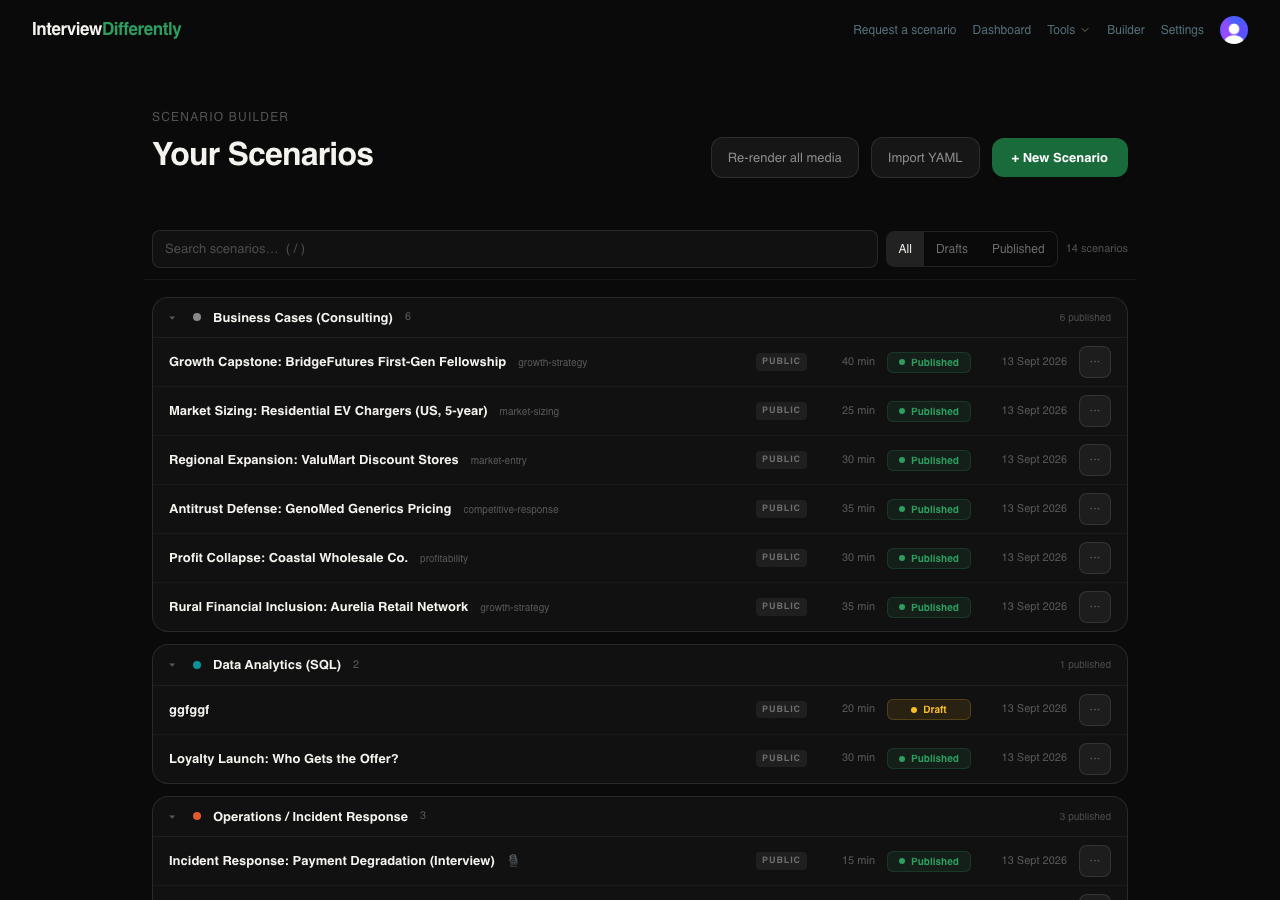
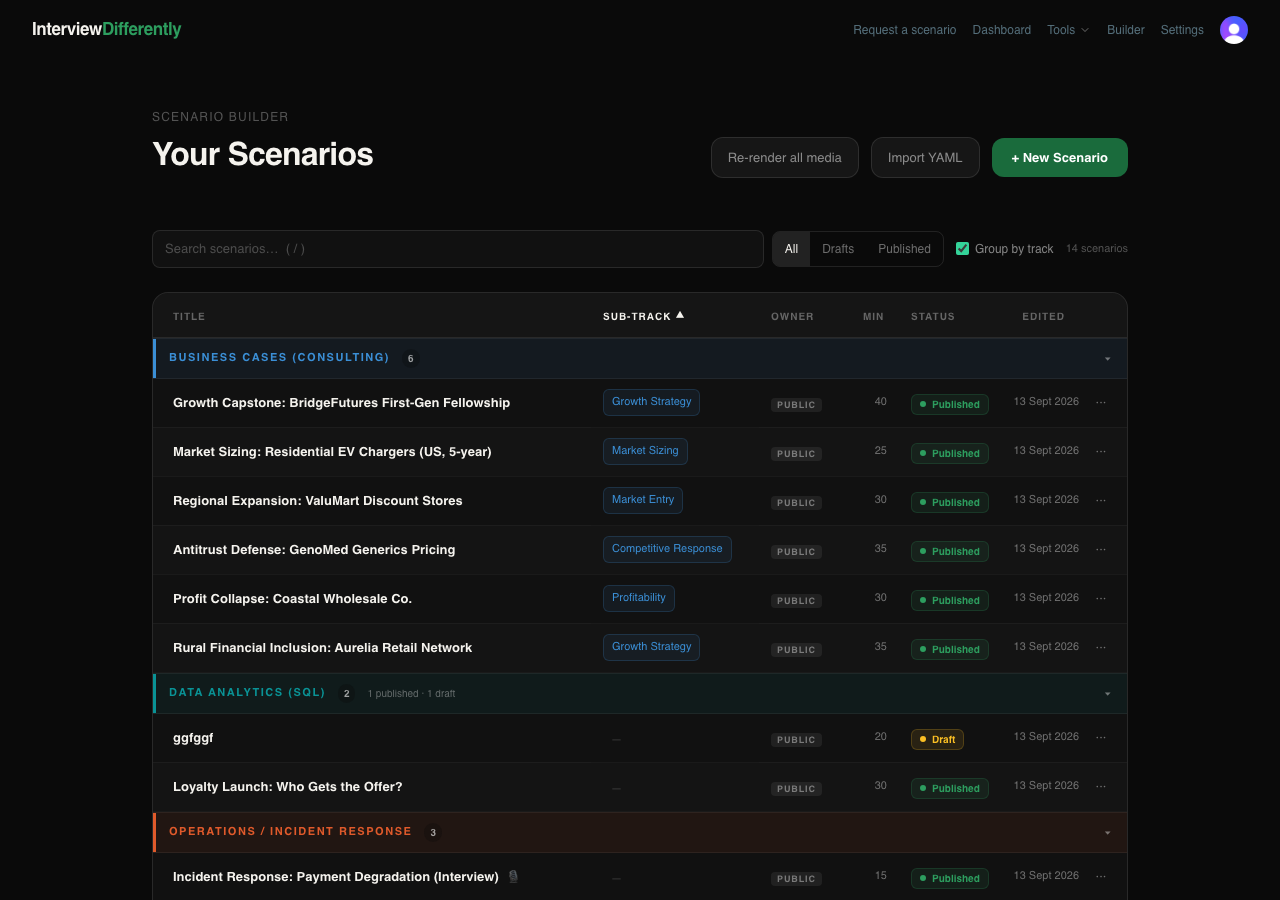
feat: builder list as a sortable table with track bands and sub-track tiles
Follow-up to the first cut of #29 after review: a real table (header row,
click-to-sort, zebra rows) inside a card; track-tinted group bands with a
coloured rule and counts; a Sub-track column of tiles ("Growth Strategy")
when grouped, "Track / Sub-track" when the Group by track toggle is off;
owner and status badges kept; Edited always visible. "Subcategory" /
"Case type" labels renamed to "Sub-track" on the setup page and Setup
block for consistency (data field unchanged).

Refs #29.

diff --git a/apps/web/src/pages/BuilderListPage.tsx b/apps/web/src/pages/BuilderListPage.tsx
@@ -1,4 +1,4 @@
-import { useState, useEffect, useRef } from 'react'
+import { Fragment, useState, useEffect, useRef } from 'react'
 import { useNavigate } from 'react-router-dom'
 import { useAuth } from '@clerk/clerk-react'
 import { Nav } from '@/components/Nav'
@@ -19,6 +19,7 @@ import {
   type BulkRenderSummary,
 } from '@/services/scenarioMediaService'
 import type { Scenario } from '@id/types'
+import { BUSINESS_CASE_SUBCATEGORY_LABELS } from '@id/types'
 
 // ── Row action menu ───────────────────────────────────────────────────────────
 
@@ -44,7 +45,7 @@ function RowMenu({ actions }: { actions: MenuAction[] }) {
     <div ref={ref} className="relative">
       <button
         onClick={() => setOpen(o => !o)}
-        className="text-[13px] text-white/30 hover:text-white/60 bg-white/5 hover:bg-white/10 border border-white/10 rounded-lg w-8 h-8 flex items-center justify-center transition-all"
+        className="text-[13px] text-white/40 hover:text-white/80 hover:bg-white/10 rounded-md w-7 h-7 flex items-center justify-center transition-all"
       >
         ···
       </button>
@@ -70,6 +71,7 @@ function RowMenu({ actions }: { actions: MenuAction[] }) {
 // ─────────────────────────────────────────────────────────────────────────────
 
 const TRACK_COLORS: Record<string, string> = {
+  'business case': '#3b8fd6',
   operations: '#e05a2b',
   business: '#2b7de0',
   risk: '#c0392b',
@@ -88,6 +90,23 @@ function readPref(k: string): string {
 }
 function writePref(k: string, v: string) {
   try { const all = JSON.parse(localStorage.getItem(PREF_KEY) ?? '{}'); all[k] = v; localStorage.setItem(PREF_KEY, JSON.stringify(all)) } catch { /* ignore */ }
+}
+
+/** "Operations / Incident Response" → "Operations"; "Business Cases (Consulting)" → "Business Cases". */
+function shortTrack(track: string): string {
+  return (TRACK_LABELS[track] ?? track).split(/ [/(]/)[0].trim()
+}
+
+/**
+ * Tile text. Grouped by track → just the sub-track ("Growth Strategy", or "—"
+ * for tracks without one). Flat → "Business Cases / Growth Strategy".
+ */
+function trackTile(s: Scenario, grouped: boolean): string {
+  const sub = s.subcategory
+    ? (BUSINESS_CASE_SUBCATEGORY_LABELS as Record<string, string>)[s.subcategory] ?? s.subcategory.replace(/-/g, ' ')
+    : null
+  if (grouped) return sub ?? '—'
+  return sub ? `${shortTrack(s.track)} / ${sub}` : shortTrack(s.track)
 }
 
 function formatDate(iso: string): string {
@@ -219,16 +238,37 @@ export function BuilderListPage() {
     return q.split(/\s+/).every(term => hay.includes(term))
   })
 
-  const trackGroups = (() => {
-    const map = new Map<string, Scenario[]>()
-    filtered.forEach(s => { if (!map.has(s.track)) map.set(s.track, []); map.get(s.track)!.push(s) })
-    map.forEach(items => items.sort((a, b) => (b.builderMeta?.lastEditedAt ?? '').localeCompare(a.builderMeta?.lastEditedAt ?? '')))
-    return [...map.entries()]
-      .sort(([a], [b]) => {
-        const ia = TRACK_ORDER.indexOf(a), ib = TRACK_ORDER.indexOf(b)
-        return (ia < 0 ? 99 : ia) - (ib < 0 ? 99 : ib) || a.localeCompare(b)
-      })
-      .map(([track, items]) => ({ track, items }))
+  type SortKey = 'track' | 'title' | 'owner' | 'minutes' | 'status' | 'edited'
+  const [sort, setSort] = useState<{ key: SortKey; dir: 1 | -1 }>(() => {
+    const [k, d] = (readPref('sort') || 'track:1').split(':')
+    return { key: (k as SortKey) || 'track', dir: d === '-1' ? -1 : 1 }
+  })
+  useEffect(() => { writePref('sort', `${sort.key}:${sort.dir}`) }, [sort])
+  function setSortKey(key: SortKey) {
+    setSort(prev => (prev.key === key ? { key, dir: prev.dir === 1 ? -1 : 1 } : { key, dir: key === 'edited' ? -1 : 1 }))
+  }
+  const trackRank = (t: string) => { const i = TRACK_ORDER.indexOf(t); return i < 0 ? 99 : i }
+  const cmp = (a: Scenario, b: Scenario): number => {
+    switch (sort.key) {
+      case 'title': return (a.title || '').localeCompare(b.title || '')
+      case 'owner': return (a.institutionName ?? '').localeCompare(b.institutionName ?? '')
+      case 'minutes': return a.estimatedMinutes - b.estimatedMinutes
+      case 'status': return (a.builderMeta?.status ?? 'draft').localeCompare(b.builderMeta?.status ?? 'draft')
+      case 'edited': return (a.builderMeta?.lastEditedAt ?? '').localeCompare(b.builderMeta?.lastEditedAt ?? '')
+      case 'track': default: return trackRank(a.track) - trackRank(b.track) || a.track.localeCompare(b.track)
+    }
+  }
+  const sorted = [...filtered].sort((a, b) => {
+    const primary = cmp(a, b) * sort.dir
+    if (primary !== 0) return primary
+    // stable secondary: newest edit first
+    return (b.builderMeta?.lastEditedAt ?? '').localeCompare(a.builderMeta?.lastEditedAt ?? '')
+  })
+  const groupByTrack = sort.key === 'track'
+  const trackCounts = (() => {
+    const m = new Map<string, { total: number; published: number }>()
+    sorted.forEach(s => { const c = m.get(s.track) ?? { total: 0, published: 0 }; c.total++; if (s.builderMeta?.status === 'published') c.published++; m.set(s.track, c) })
+    return m
   })()
 
   function toggleTrack(track: string) {
@@ -382,7 +422,7 @@ export function BuilderListPage() {
         </div>
 
         {/* Search + filters */}
-        <div className="sticky top-0 z-10 -mx-2 px-2 py-3 bg-[#0a0a0a]/95 backdrop-blur border-b border-white/[0.06] mb-4 flex items-center gap-2 flex-wrap">
+        <div className="sticky top-0 z-10 py-3 bg-[#0a0a0a] mb-3 flex items-center gap-2 flex-wrap">
           <div className="relative flex-1 min-w-[220px]">
             <input
               ref={searchRef}
@@ -416,6 +456,15 @@ export function BuilderListPage() {
               {ownerOptions.map(o => <option key={o.id} value={o.id}>{o.label}</option>)}
             </select>
           )}
+          <label className="flex items-center gap-1.5 text-[12px] text-white/50 cursor-pointer select-none px-1">
+            <input
+              type="checkbox"
+              checked={groupByTrack}
+              onChange={e => setSort(e.target.checked ? { key: 'track', dir: 1 } : { key: 'edited', dir: -1 })}
+              className="accent-emerald-400"
+            />
+            Group by track
+          </label>
           <span className="text-[11px] text-white/30 ml-auto">
             {filtered.length === scenarios.length ? `${scenarios.length} scenarios` : `${filtered.length} of ${scenarios.length}`}
           </span>
@@ -444,84 +493,122 @@ export function BuilderListPage() {
             <p className="text-[13px] text-white/40">Nothing matches — <button onClick={() => { setQuery(''); setStatusFilter('all'); setOwnerFilter('') }} className="text-emerald-400 hover:underline">clear filters</button>.</p>
           </div>
         ) : (
-          <div className="flex flex-col gap-3">
-            {trackGroups.map(group => {
-              const color = TRACK_COLORS[group.track] ?? '#888'
-              const collapsed = collapsedTracks.has(group.track) && !query
-              return (
-                <div key={group.track} className="bg-[#111111] border border-white/10 rounded-2xl overflow-hidden">
-                  <button
-                    onClick={() => toggleTrack(group.track)}
-                    className="w-full flex items-center gap-3 px-4 py-2.5 text-left hover:bg-white/[0.03] transition-colors"
-                  >
-                    <span className="text-[10px] text-white/30 w-3">{collapsed ? '▸' : '▾'}</span>
-                    <span className="w-2 h-2 rounded-full flex-none" style={{ background: color }} />
-                    <span className="text-[13px] font-bold text-[#f5f3ee]">{TRACK_LABELS[group.track] ?? group.track}</span>
-                    <span className="text-[11px] text-white/30">{group.items.length}</span>
-                    <span className="ml-auto text-[10px] text-white/25">
-                      {group.items.filter(s => s.builderMeta?.status === 'published').length} published
-                    </span>
-                  </button>
-                  {!collapsed && (
-                    <ul className="border-t border-white/[0.06]">
-                      {group.items.map(scenario => {
-                        const status = scenario.builderMeta?.status ?? 'draft'
-                        const lastEdited = scenario.builderMeta?.lastEditedAt ?? ''
-                        return (
-                          <li
-                            key={scenario.scenarioId}
-                            className="flex items-center gap-3 px-4 py-2 border-b border-white/[0.04] last:border-b-0 hover:bg-white/[0.03] transition-colors"
-                          >
+          <div className="bg-[#111111] border border-white/10 rounded-2xl overflow-x-auto">
+            <table className="w-full border-collapse table-fixed min-w-[560px]">
+              <thead>
+                <tr className="border-b border-white/10 bg-white/[0.02]">
+                  {(
+                    [
+                      ['title', 'Title', 'text-left pl-5'],
+                      ['track', groupByTrack ? 'Sub-track' : 'Track', groupByTrack ? 'text-left w-[168px]' : 'text-left w-[236px]'],
+                      ['owner', 'Owner', 'text-left w-[92px]'],
+                      ['minutes', 'Min', 'text-right w-[48px]'],
+                      ['status', 'Status', 'text-left w-[100px]'],
+                      ['edited', 'Edited', 'text-right w-[92px]'],
+                    ] as [SortKey, string, string][]
+                  ).map(([key, label, cls]) => (
+                    <th key={key} className={`px-3 py-2.5 ${cls}`}>
+                      <button
+                        onClick={() => setSortKey(key)}
+                        className={`inline-flex items-center gap-1 text-[10px] font-bold uppercase tracking-widest transition-colors ${
+                          sort.key === key ? 'text-[#f5f3ee]' : 'text-white/35 hover:text-white/70'
+                        }`}
+                      >
+                        {label}
+                        <span className={`text-[9px] ${sort.key === key ? 'opacity-100' : 'opacity-0'}`}>{sort.dir === 1 ? '▲' : '▼'}</span>
+                      </button>
+                    </th>
+                  ))}
+                  <th className="px-2 py-2.5 w-9" />
+                </tr>
+              </thead>
+              <tbody>
+                {sorted.map((scenario, i) => {
+                  const status = scenario.builderMeta?.status ?? 'draft'
+                  const lastEdited = scenario.builderMeta?.lastEditedAt ?? ''
+                  const color = TRACK_COLORS[scenario.track] ?? '#888'
+                  const firstOfTrack = groupByTrack && (i === 0 || sorted[i - 1].track !== scenario.track)
+                  const collapsed = groupByTrack && collapsedTracks.has(scenario.track) && !query
+                  const counts = trackCounts.get(scenario.track)!
+                  return (
+                    <Fragment key={scenario.scenarioId}>
+                      {firstOfTrack && (
+                        <tr>
+                          <td colSpan={7} className="p-0">
                             <button
-                              onClick={() => navigate(`/builder/${scenario.scenarioId}`)}
-                              className="flex-1 min-w-0 flex items-center gap-3 text-left group"
+                              onClick={() => toggleTrack(scenario.track)}
+                              className="w-full flex items-center gap-3 pl-4 pr-4 py-2.5 text-left border-y border-white/[0.06] hover:brightness-125 transition"
+                              style={{ background: `${color}14`, boxShadow: `inset 3px 0 0 ${color}` }}
                             >
-                              <span className="text-[13px] font-semibold text-[#f5f3ee] group-hover:text-white truncate">
+                              <span className="text-[11px] font-bold uppercase tracking-[0.14em]" style={{ color }}>
+                                {TRACK_LABELS[scenario.track] ?? scenario.track}
+                              </span>
+                              <span className="text-[10px] font-semibold px-1.5 py-0.5 rounded-full bg-black/30 text-white/60">
+                                {counts.total}
+                              </span>
+                              {counts.published !== counts.total && (
+                                <span className="text-[10px] text-white/35">{counts.published} published · {counts.total - counts.published} draft</span>
+                              )}
+                              <span className={`ml-auto text-[10px] text-white/40 transition-transform ${collapsed ? '-rotate-90' : ''}`}>▾</span>
+                            </button>
+                          </td>
+                        </tr>
+                      )}
+                      {!collapsed && (
+                        <tr className={`group/row border-b border-white/[0.04] last:border-b-0 hover:bg-white/[0.04] transition-colors ${i % 2 ? 'bg-white/[0.015]' : ''}`}>
+                          <td className="pl-5 pr-3 py-2.5">
+                            <button onClick={() => navigate(`/builder/${scenario.scenarioId}`)} className="flex items-baseline gap-2 text-left w-full min-w-0">
+                              <span className="text-[13px] font-semibold text-[#f5f3ee] group-hover/row:text-white truncate min-w-0" title={scenario.title}>
                                 {scenario.title || 'Untitled Scenario'}
                               </span>
-                              {scenario.subcategory && (
-                                <span className="text-[10px] text-white/30 flex-none hidden md:inline">{scenario.subcategory}</span>
-                              )}
-                              {scenario.mode === 'immersive' && (
-                                <span className="text-[10px] font-semibold text-white/40 flex-none" title="Immersive (AI interviewer)">🎙</span>
-                              )}
+                              {scenario.mode === 'immersive' && <span className="text-[10px] text-white/40 flex-none" title="Immersive (AI interviewer)">🎙</span>}
                             </button>
+                          </td>
+                          <td className="px-3 py-2.5 overflow-hidden">
+                            {trackTile(scenario, groupByTrack) === '—' ? (
+                              <span className="text-[11px] text-white/20 pl-2">—</span>
+                            ) : (
+                              <span
+                                className="block max-w-full w-fit text-[11px] font-medium px-2 py-1 rounded-md border truncate"
+                                style={{ color, background: `${color}14`, borderColor: `${color}33` }}
+                                title={trackTile(scenario, groupByTrack)}
+                              >
+                                {trackTile(scenario, groupByTrack)}
+                              </span>
+                            )}
+                          </td>
+                          <td className="px-3 py-2.5 whitespace-nowrap">
                             <span
-                              className={`text-[9px] font-bold uppercase tracking-widest px-1.5 py-0.5 rounded flex-none ${
-                                scenario.institutionName ? 'bg-green/20 text-green-light' : 'bg-white/[0.06] text-white/35'
+                              className={`text-[9px] font-bold uppercase tracking-widest px-1.5 py-0.5 rounded ${
+                                scenario.institutionName ? 'bg-green/20 text-green-light' : 'bg-white/[0.07] text-white/40'
                               }`}
                               title={scenario.institutionName ? `Private to ${scenario.institutionName}` : 'Visible to every user'}
                             >
                               {scenario.institutionName ?? 'Public'}
                             </span>
-                            <span className="text-[11px] text-white/30 flex-none w-14 text-right hidden sm:inline">{scenario.estimatedMinutes} min</span>
+                          </td>
+                          <td className="px-3 py-2.5 text-right text-[11px] text-white/40 tabular-nums whitespace-nowrap">{scenario.estimatedMinutes}</td>
+                          <td className="px-3 py-2.5 whitespace-nowrap">
                             <span
-                              className={`inline-flex items-center gap-1.5 text-[10px] font-semibold px-2 py-0.5 rounded-md flex-none w-[84px] justify-center ${
+                              className={`inline-flex items-center gap-1.5 text-[10px] font-semibold px-2 py-0.5 rounded-md border ${
                                 status === 'published'
-                                  ? 'text-[#2d9e5f] bg-[#2d9e5f]/10 border border-[#2d9e5f]/20'
-                                  : 'text-amber-400 bg-amber-400/10 border border-amber-400/20'
+                                  ? 'text-[#2d9e5f] bg-[#2d9e5f]/10 border-[#2d9e5f]/20'
+                                  : 'text-amber-400 bg-amber-400/10 border-amber-400/20'
                               }`}
                             >
                               <span className={`w-1.5 h-1.5 rounded-full ${status === 'published' ? 'bg-[#2d9e5f]' : 'bg-amber-400'}`} />
                               {status === 'published' ? 'Published' : 'Draft'}
                             </span>
-                            <span className="text-[11px] text-white/30 flex-none w-[84px] text-right hidden md:inline">
-                              {lastEdited ? formatDate(lastEdited) : '—'}
-                            </span>
-                            <div className="flex-none flex items-center">
-                              {confirmDelete === scenario.scenarioId ? (
-                                <div className="flex items-center gap-1">
-                                  <button
-                                    onClick={() => handleDelete(scenario.scenarioId)}
-                                    className="text-[11px] text-red-400 hover:text-red-300 bg-red-400/10 border border-red-400/20 rounded-lg px-2 py-1 transition-all"
-                                  >
-                                    Confirm delete
-                                  </button>
-                                  <button onClick={() => setConfirmDelete(null)} className="text-[11px] text-white/30 hover:text-white/50 px-2 py-1">
-                                    Cancel
-                                  </button>
-                                </div>
-                              ) : (
+                          </td>
+                          <td className="px-3 py-2.5 text-right text-[11px] text-white/40 tabular-nums whitespace-nowrap">{lastEdited ? formatDate(lastEdited) : '—'}</td>
+                          <td className="px-3 py-2.5">
+                            {confirmDelete === scenario.scenarioId ? (
+                              <div className="flex items-center gap-1 justify-end">
+                                <button onClick={() => handleDelete(scenario.scenarioId)} className="text-[11px] text-red-400 hover:text-red-300 bg-red-400/10 border border-red-400/20 rounded-md px-2 py-1 whitespace-nowrap transition-all">Confirm</button>
+                                <button onClick={() => setConfirmDelete(null)} className="text-[11px] text-white/30 hover:text-white/50 px-1 py-1">Cancel</button>
+                              </div>
+                            ) : (
+                              <div className="flex justify-end">
                                 <RowMenu actions={[
                                   { label: 'Edit', onClick: () => navigate(`/builder/${scenario.scenarioId}`) },
                                   { label: 'Duplicate', onClick: () => handleDuplicate(scenario.scenarioId) },
@@ -529,16 +616,16 @@ export function BuilderListPage() {
                                   { label: 'Export JSON', onClick: () => handleExport(scenario.scenarioId, 'json') },
                                   { label: 'Delete', onClick: () => setConfirmDelete(scenario.scenarioId), danger: true },
                                 ]} />
-                              )}
-                            </div>
-                          </li>
-                        )
-                      })}
-                    </ul>
-                  )}
-                </div>
-              )
-            })}
+                              </div>
+                            )}
+                          </td>
+                        </tr>
+                      )}
+                    </Fragment>
+                  )
+                })}
+              </tbody>
+            </table>
           </div>
         )}
 

diff --git a/apps/web/src/pages/BuilderSetupPage.tsx b/apps/web/src/pages/BuilderSetupPage.tsx
@@ -131,7 +131,7 @@ export function BuilderSetupPage() {
       return
     }
     if (showSubcategory && !subcategory) {
-      setError('Please select a business case subcategory.')
+      setError('Please select a sub-track.')
       return
     }
     const scenario = await createScenario(title.trim(), track, showSubcategory ? subcategory : undefined, owner)
@@ -316,11 +316,11 @@ export function BuilderSetupPage() {
           </div>
         </div>
 
-        {/* Business case subcategory */}
+        {/* Sub-track (business cases only today) */}
         {showSubcategory && (
           <div className="mb-8">
             <label className="block text-[11px] font-bold uppercase tracking-widest text-white/40 mb-3">
-              Subcategory
+              Sub-track
             </label>
             <div className="grid grid-cols-2 gap-2">
               {BUSINESS_CASE_SUBCATEGORIES.map((slug) => {

diff --git a/apps/web/src/builder-v2/editors/SetupEditor.tsx b/apps/web/src/builder-v2/editors/SetupEditor.tsx
@@ -149,7 +149,7 @@ export function SetupEditor({ scenario, onDone }: Props) {
           />
         </Field>
         {isBusinessCase && (
-          <Field label="Case type">
+          <Field label="Sub-track">
             <SelectInput
               value={subcategory}
               onChange={e => setSubcategory(e.target.value)}
